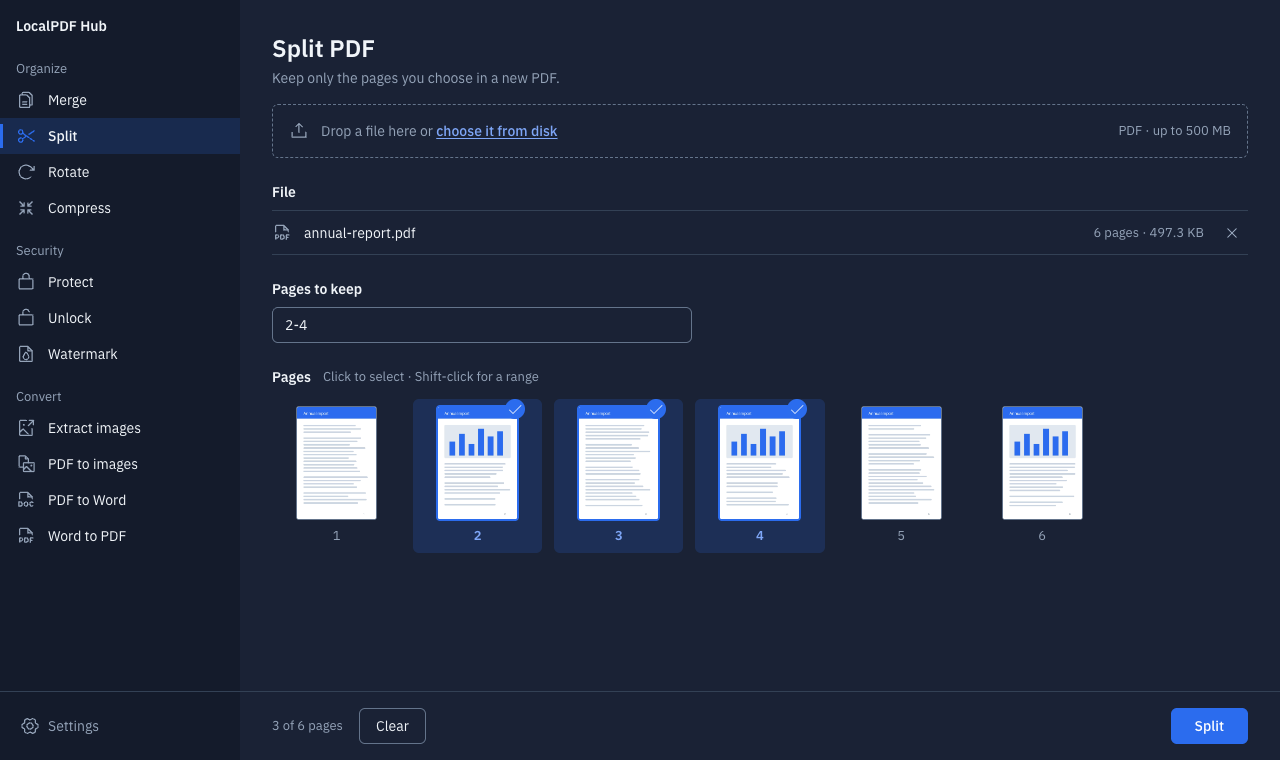
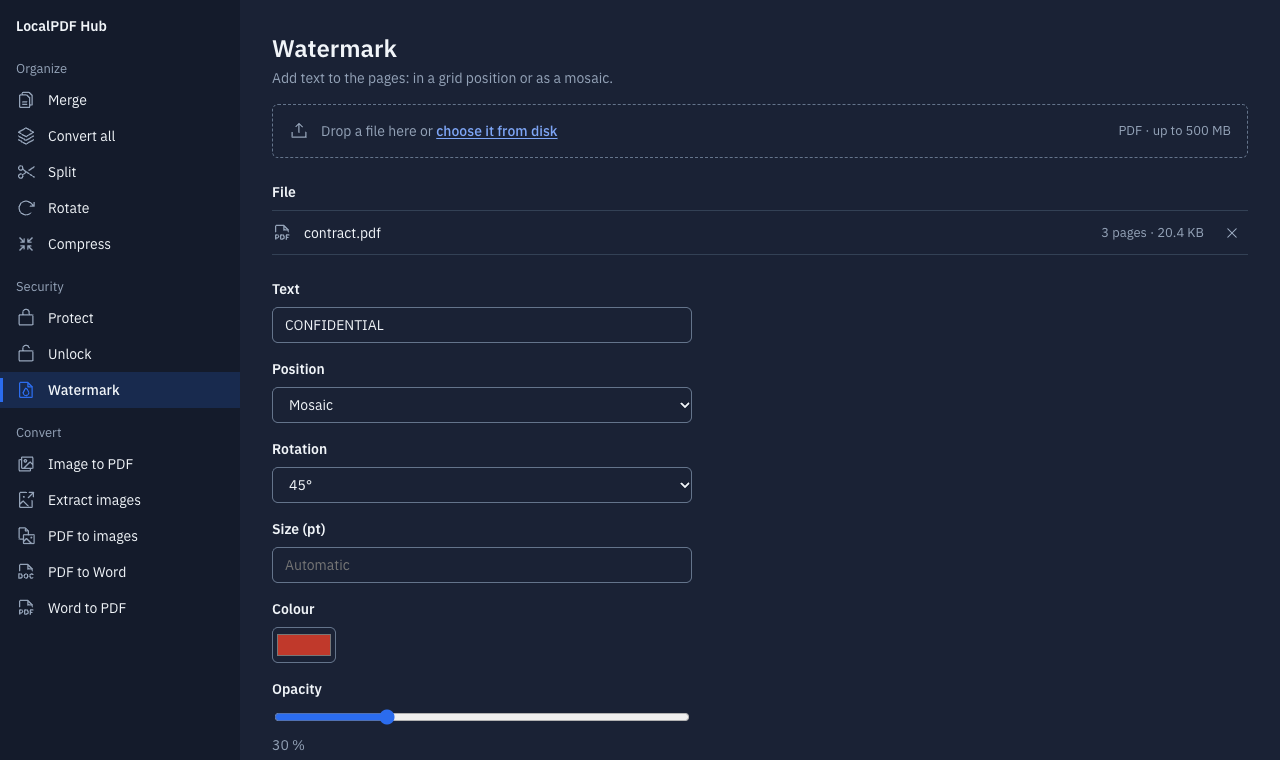
docs: show 4.2 in the README screenshots and tool table
The screenshots were from 4.0: no Image to PDF or Convert all in the
sidebar, and a watermark with only text and opacity. They now show
Convert all with PDFs and images, and the watermark options in the dark
theme. The tool table lists Convert all, Image to PDF, and the new
options of Watermark, PDF to images and Protect, in both READMEs.

diff --git a/README.es.md b/README.es.md
@@ -5,9 +5,9 @@ comprimir, proteger y convertir, sin subir tus archivos a ningún lado.
 
 [English](README.md)
 
-![Unir un informe, una factura y una foto, en el tema claro](docs/screenshot-light.png)
+![Convertir un informe, una factura, una foto y un plano en un solo PDF, en el tema claro](docs/screenshot-light.png)
 
-![Elegir las páginas 2 a 4 para dividir un informe, en el tema oscuro](docs/screenshot-dark.png)
+![Opciones de la marca de agua: mosaico rojo a 45°, en el tema oscuro](docs/screenshot-dark.png)
 
 Las capturas muestran la interfaz en inglés; en Ajustes se cambia a español.
 
@@ -15,10 +15,11 @@ Las capturas muestran la interfaz en inglés; en Ajustes se cambia a español.
 
 | Organizar | Seguridad | Convertir |
 |---|---|---|
-| Unir PDF e imágenes (JPG, PNG, HEIC) | Proteger con contraseña (AES-256) | Extraer imágenes |
-| Dividir por páginas o rangos | Desbloquear un PDF del que tenés la contraseña | PDF a imágenes |
-| Rotar páginas | Marca de agua | PDF a Word |
-| Comprimir | | Word a PDF |
+| Unir PDF | Proteger con contraseña (AES-256), escrita dos veces | Convertir todo: PDF e imágenes en un solo PDF |
+| Dividir por páginas o rangos | Desbloquear un PDF del que tenés la contraseña | Imagen a PDF (JPG, PNG, HEIC, TIFF) |
+| Rotar páginas | Marca de agua: posición en grilla o mosaico, rotación, tamaño, color y páginas | Extraer imágenes |
+| Comprimir | | PDF a imágenes (PNG o JPG, de 72 a 300 ppp) |
+| | | PDF a Word y Word a PDF |
 
 ## Tus archivos no salen de tu computadora
 

diff --git a/README.md b/README.md
@@ -5,18 +5,19 @@ and convert, without uploading your files anywhere.
 
 [Español](README.es.md)
 
-![Merging a report, an invoice and a photo, in the light theme](docs/screenshot-light.png)
+![Converting a report, an invoice, a photo and a floor plan into one PDF, in the light theme](docs/screenshot-light.png)
 
-![Choosing pages 2 to 4 to split a report, in the dark theme](docs/screenshot-dark.png)
+![Watermark options: a red mosaic turned 45°, in the dark theme](docs/screenshot-dark.png)
 
 ## What it does
 
 | Organize | Security | Convert |
 |---|---|---|
-| Merge PDFs and images (JPG, PNG, HEIC) | Protect with a password (AES-256) | Extract images |
-| Split by pages or ranges | Unlock a PDF you have the password for | PDF to images |
-| Rotate pages | Watermark | PDF to Word |
-| Compress | | Word to PDF |
+| Merge PDFs | Protect with a password (AES-256), typed twice | Convert all: PDFs and images into one PDF |
+| Split by pages or ranges | Unlock a PDF you have the password for | Image to PDF (JPG, PNG, HEIC, TIFF) |
+| Rotate pages | Watermark: grid position or mosaic, rotation, size, colour and pages | Extract images |
+| Compress | | PDF to images (PNG or JPG, 72 to 300 dpi) |
+| | | PDF to Word and Word to PDF |
 
 ## Your files stay on your computer
 
